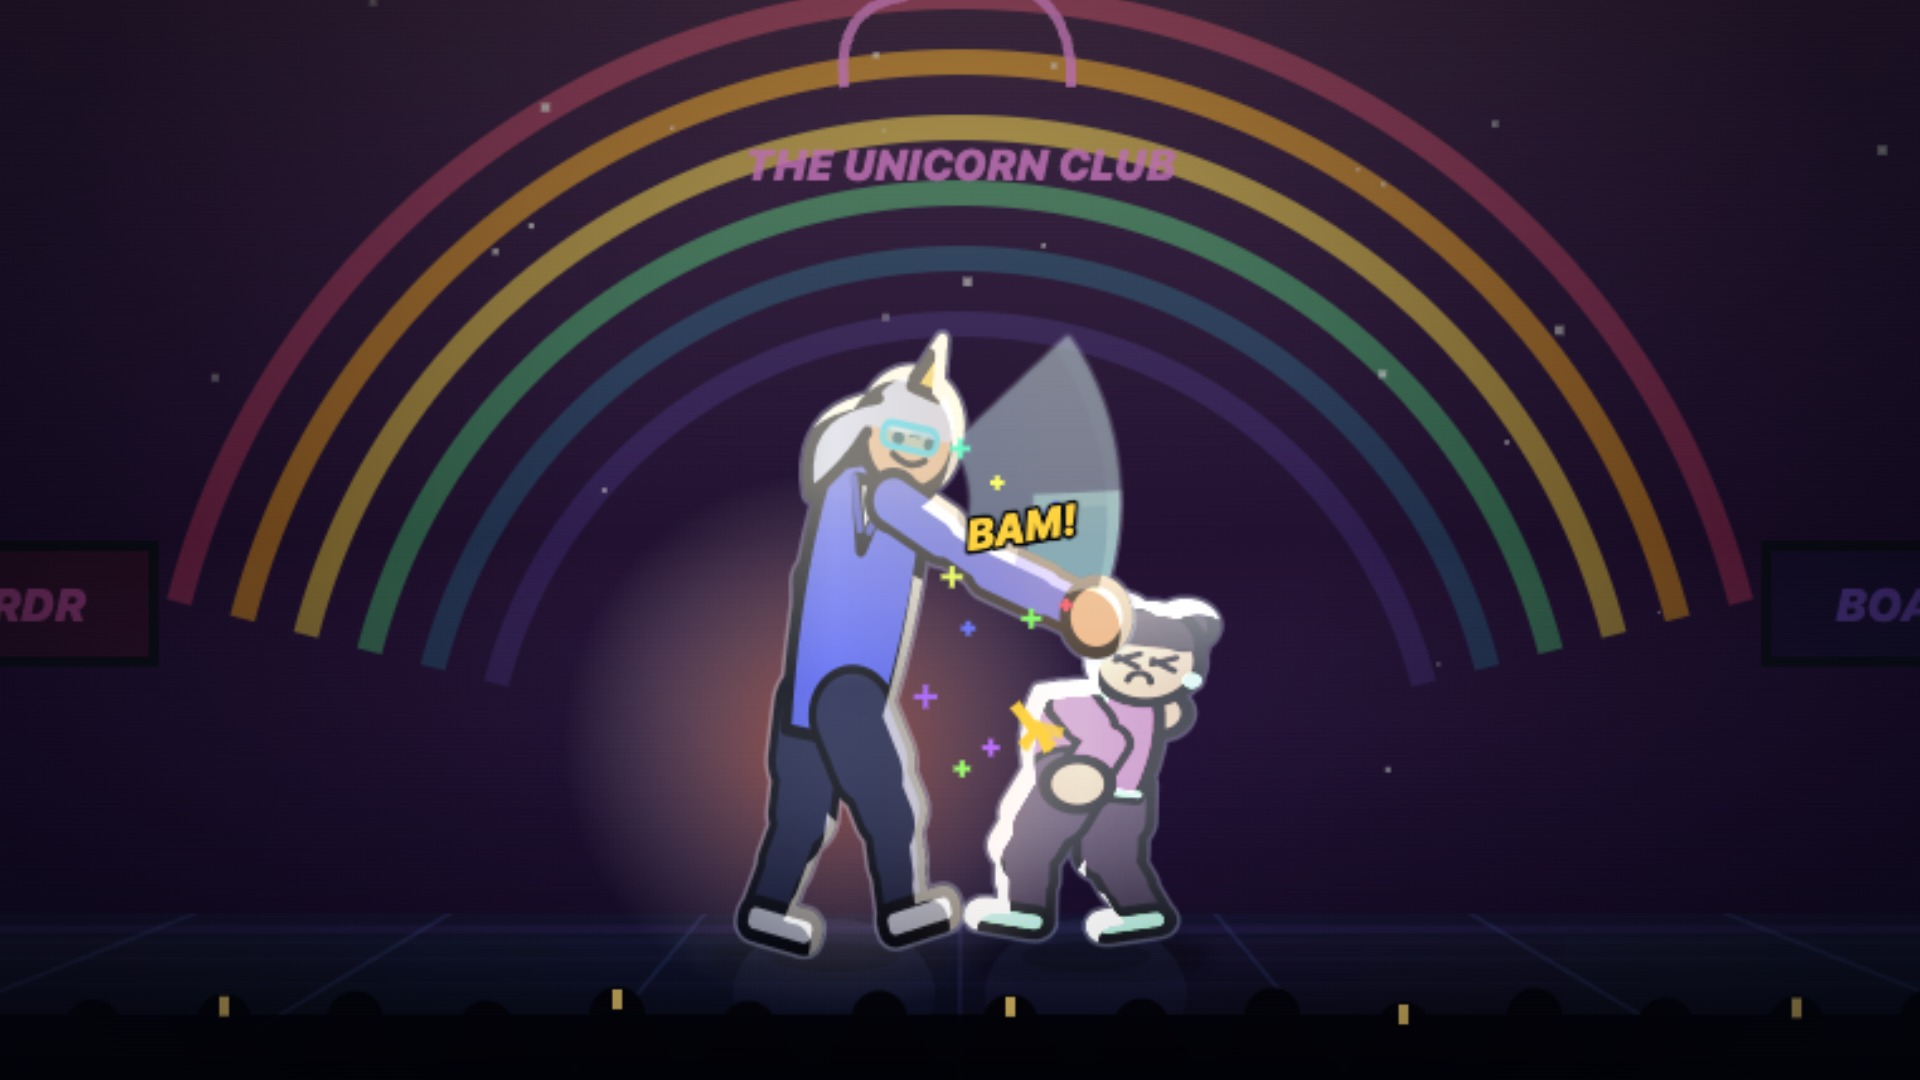
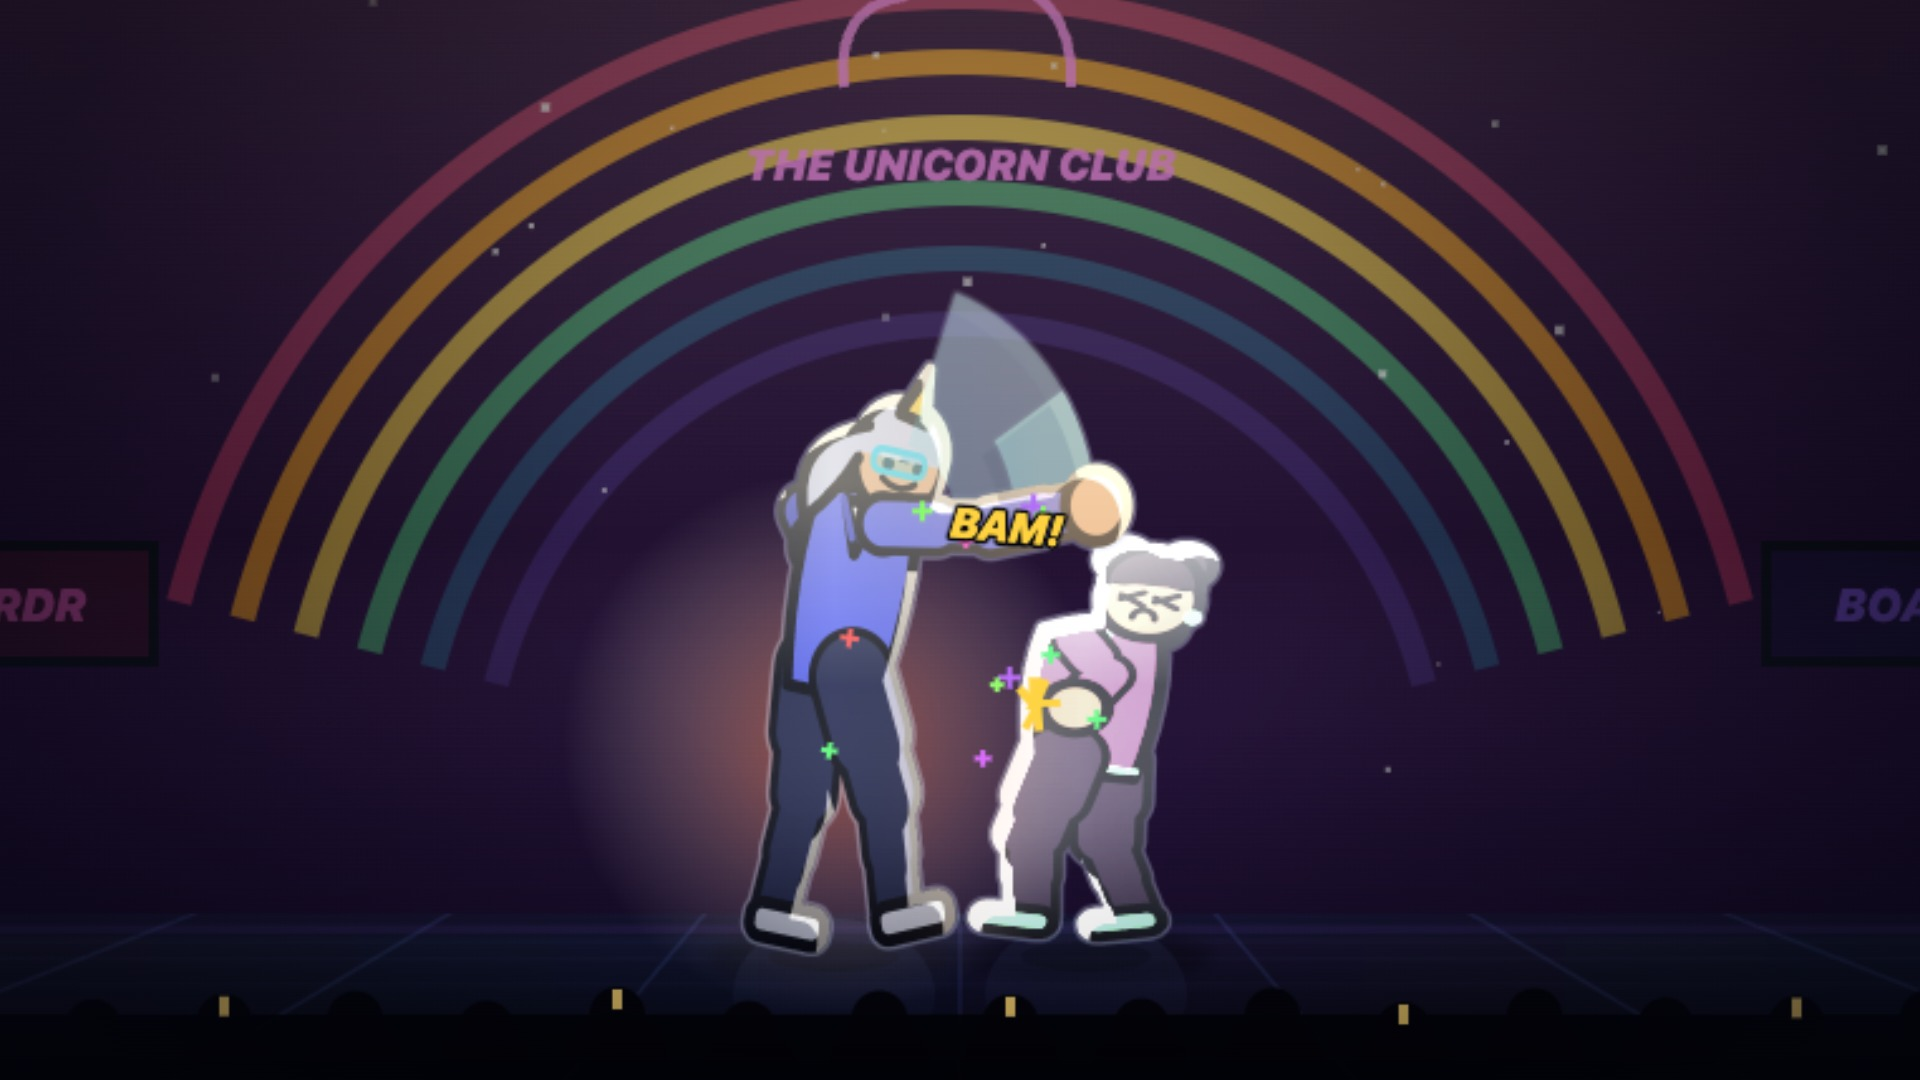
release: v2.9 — the founders stop growing mid-punch
Version, README, and marketing assets regenerated — this time they genuinely
needed it, because the cast's silhouettes changed. Checked rather than assumed,
same as last release: v2.8's only render change was the KO mouth and the assets
were left alone; this one moves every fighter's height.

Four commits:
  - the sim-version guard, so a live match refuses a mismatched opponent up
    front instead of voiding thirty seconds in
  - the Incubator, which my own v2.7 work had broken in two ways
  - the two-skeleton bug: fighters grew 27% for the length of every attack
  - height as characterisation, spent through the unpriced knob

No saved build is affected and no cost moved. The power budget, the ranked
ladder and every founder anyone has made are untouched.

173 tests.

Changed region(s): [[0.375, 0.275, 0.6562, 0.8861]]

diff --git a/src/config.js b/src/config.js
@@ -1,7 +1,7 @@
 // Central tuning for the whole game. All gameplay numbers live here.
 
 // Bump this on every release — it's rendered on the title screen.
-export const VERSION = 'v2.8';
+export const VERSION = 'v2.9';
 
 // Every player fights on identical footing. Your base character is pure
 // cosmetics: it decides how you LOOK, never how hard you hit. Ranked points

diff --git a/README.md b/README.md
@@ -69,6 +69,12 @@ Touch pads appear automatically on phones/tablets (or force them with `?touch=1`
 
 **Parry:** tap block at the instant a hit lands (0.12 s window) — the attacker staggers and you gain energy. Grabs beat parries; parries beat everything else.
 
+## What's new in v2.9 — the founders stop growing mid-punch
+
+- 📐 **Fighters no longer get 27% bigger when they attack.** They did, for the whole length of every swing. The stance lived in two places in the code and only one of them was updated when v2.7 retuned the proportions — so a founder stood at the old skeleton and snapped to the new one to throw a punch. One rig now, and v2.7's proportions finally reach the character you actually look at, which means the whole cast is visibly taller at rest.
+- 📏 **Height means something.** Cathie is the tallest because she *is* the range — you should see it before she uses it. Adam isn't the tallest, he's the biggest. Lizbeth is deliberately, forgettably ordinary. Kim is the smallest and the hardest thing on stage to hit. It costs nobody any power budget: stature is spent through leg length, which the budget doesn't price.
+- 🌐 **Live matches refuse a mismatched opponent up front** instead of voiding thirty seconds in. The handshake checked what a character *is* but not what it *does*, so two players on different versions could start a fight that was already doomed and have it report itself as a network fault.
+
 ## What's new in v2.8 — everyone fights differently now
 
 v2.4 built a system for giving each founder their own moves. Two of them ever used it. Now all nine do.
